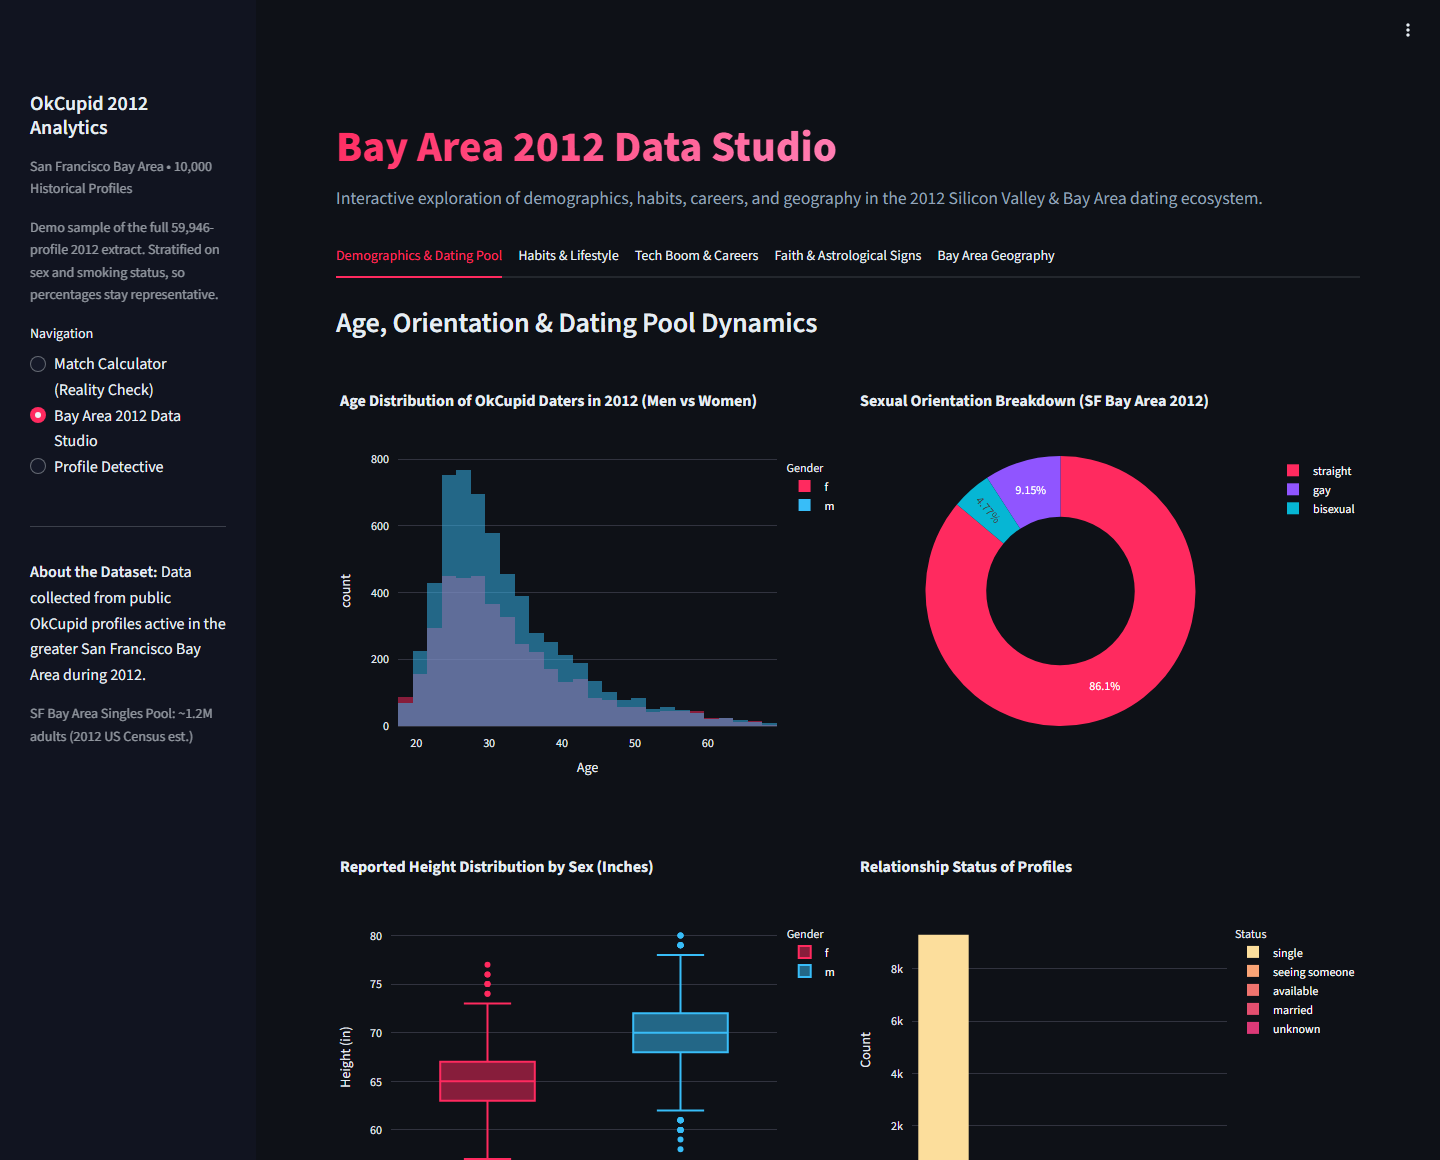
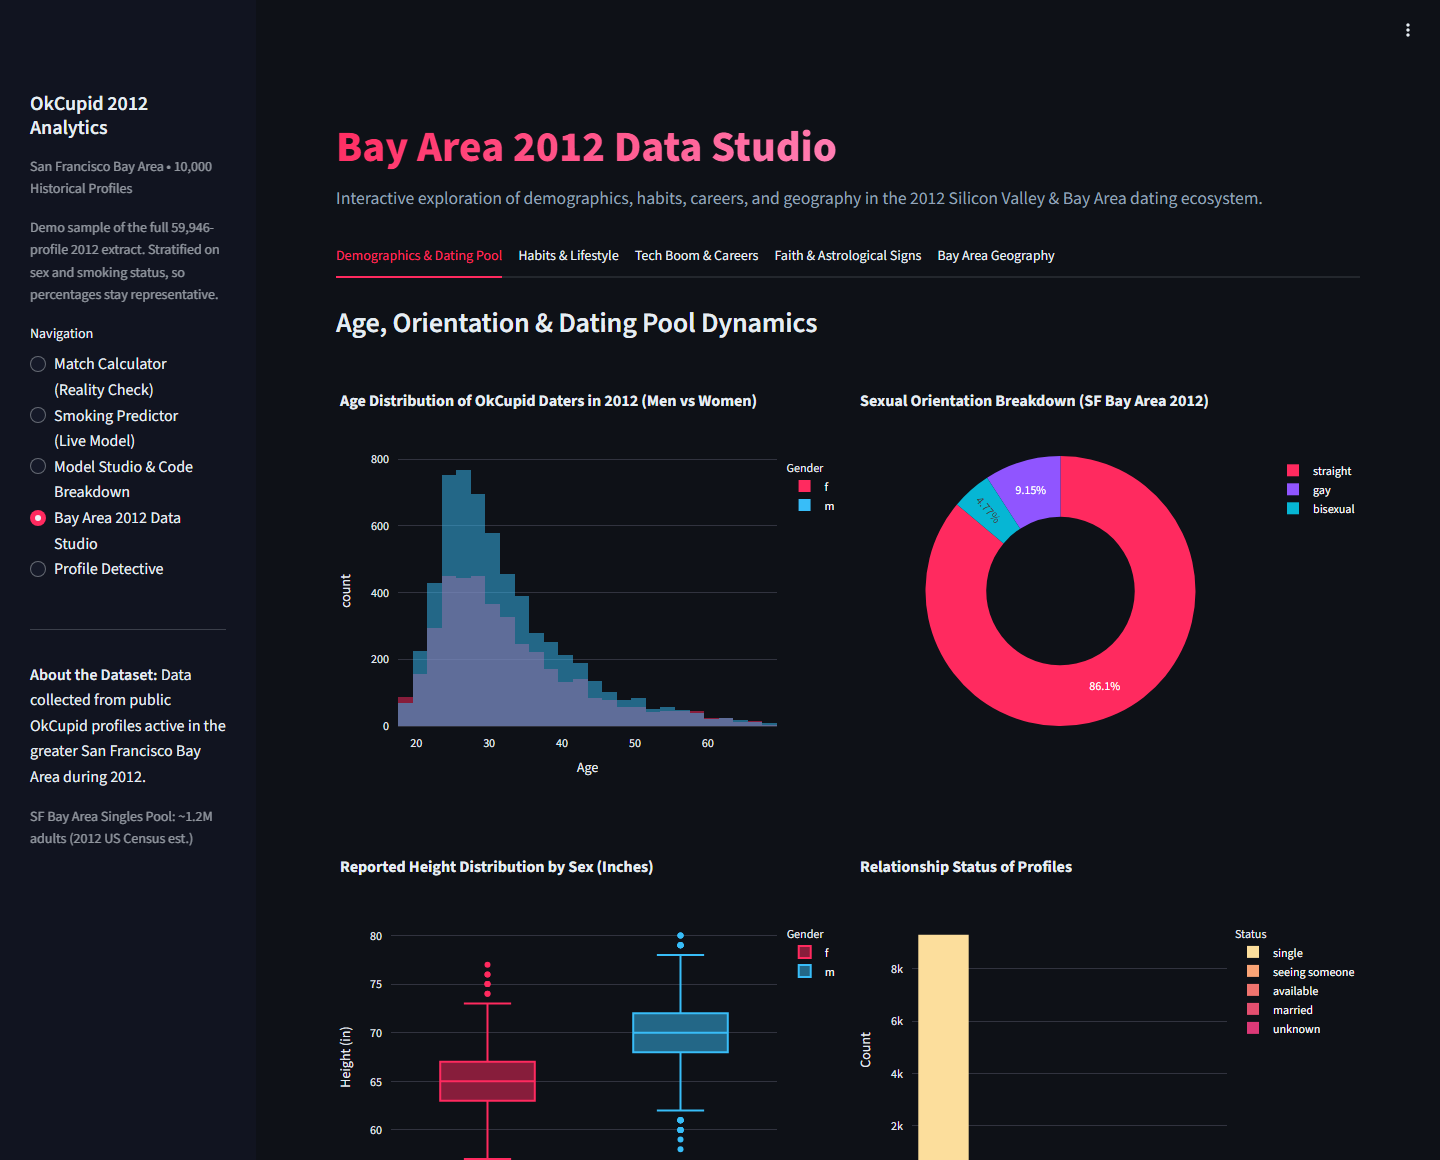
docs: label every figure with its dataset, add the ML screenshots and a build note

Changed region(s): [[0.0, 0.3414, 0.1562, 0.7448]]

diff --git a/README.md b/README.md
@@ -9,6 +9,7 @@ smoking is predictable from the rest of a dating profile.**
 ![Plotly](https://img.shields.io/badge/Plotly-6.3-3F4F75?logo=plotly&logoColor=white)
 ![scikit-learn](https://img.shields.io/badge/scikit--learn-1.7-F7931E?logo=scikitlearn&logoColor=white)
 ![License](https://img.shields.io/badge/license-MIT-2ea44f)
+[![CI](https://github.com/ShadowstheDark/OK_Cupid_Smoking_predictor/actions/workflows/ci.yml/badge.svg)](https://github.com/ShadowstheDark/OK_Cupid_Smoking_predictor/actions/workflows/ci.yml)
 
 [![Open in Streamlit](https://static.streamlit.io/badges/streamlit_badge_black_white.svg)](https://okcupidsmokingpredictor-bb36gkdr5sbeub82b6lz83.streamlit.app/)
 
@@ -24,37 +25,67 @@ single requirement is doing the most damage to your dating pool.
 Smoking *is* weakly predictable from the rest of a profile — but the headline number
 that looks like success is not one, and the notebook is largely about proving that.
 
-| Model (held-out test set, 10,887 profiles) | Accuracy | Precision (smoker) | Recall (smoker) | F1 (smoker) |
-|---|---|---|---|---|
-| Baseline — always answer "does not smoke" | **0.806** | 0.000 | 0.000 | 0.000 |
-| Logistic regression | 0.820 | 0.618 | 0.184 | 0.283 |
-| Logistic regression, `class_weight="balanced"` | 0.709 | 0.351 | **0.592** | 0.441 |
-| Random forest, `max_depth=5` | 0.751 | 0.392 | 0.520 | **0.447** |
+*Implementation was AI-assisted. What is mine, and what I caught along the way, is in
+[How this was built](#how-this-was-built).*
+
+<!-- benchmark:start -->
+**Committed sample — 10,000 rows** — shipped in the repository and served by the deployed app. Stratified on sex and smoking status, so shares stay representative.
+
+| Model | Accuracy | Precision (smoker) | Recall (smoker) | F1 (smoker) | ROC-AUC |
+|---|---|---|---|---|---|
+| Baseline — always answer "does not smoke" | 0.806 | 0.000 | 0.000 | 0.000 | 0.500 |
+| Logistic regression | 0.817 | 0.591 | 0.185 | 0.281 | 0.727 |
+| Logistic regression, `class_weight="balanced"` | 0.712 | 0.362 | 0.639 | 0.462 | 0.727 |
+| Random forest, `max_depth=5` | 0.733 | 0.371 | 0.545 | 0.442 | 0.714 |
+| HistGradientBoosting (balanced) | 0.728 | 0.377 | 0.625 | 0.471 | 0.729 |
+
+- Profiles in file: **10,000**
+- Profiles with a usable smoking label: **9,081**
+- Held-out test split (20%, stratified): **1,817**
+- Smoker base rate: **19.4%**
+- Smoker rate when the drugs question was answered `never`: **12.4%** (7,214 profiles)
+- Smoker rate when the drugs question was left blank: **23.1%** (1,867 profiles)
+
+_Generated by `python scripts/report_metrics.py --write`; do not edit by hand._
+<!-- benchmark:end -->
 
 ### What that table actually says
 
 **80.6% of the people who answered the smoking question do not smoke.** So the plain
-logistic regression's 82.0% accuracy is not a result — it is the base rate plus a
-rounding error, and that model catches only 18% of actual smokers. Twelve points of
+logistic regression's 81.7% accuracy is not a result — it is the base rate plus a
+rounding error, and that model catches under a fifth of actual smokers. The extra
 accuracy came from learning to say "no" more confidently, not from learning anything.
 
 Balancing the class weights fixes the right thing and wrecks the headline number:
-accuracy drops to 70.9% while smoker recall climbs from 0.18 to 0.59. If the goal is
+accuracy falls by ten points while recall on smokers more than triples. If the goal is
 *finding* smokers rather than *scoring* well, that trade is worth making — and it is
 completely invisible if you only ever report accuracy.
 
-The signal that does exist is almost entirely drug use and drinking (`drugs_often`
-leads with a coefficient of 2.07, `drinks_very often` 1.02), while age is close to
-irrelevant at -0.04. That is nearly tautological: those are co-reported habits from
-the same session, not independent evidence.
+The signal that does exist is almost entirely drug use and drinking, while age is
+close to irrelevant. That is nearly tautological: those are co-reported habits from
+the same session, not independent evidence, which is the strongest reason to be
+sceptical of the model even though its numbers look respectable.
 
 The most useful thing the study does is refuse to overclaim. Five-fold
-cross-validation shows depths 3, 5 and 7 land at 0.441 / 0.443 / 0.444 mean F1 —
-inside one fold-to-fold standard deviation of each other — so "depth 7 is best" is
-reading noise. An earlier version of this analysis did exactly that; the notebook
-shows the corrected version with the numbers attached.
+cross-validation shows the random forest's depths 3, 5 and 7 landing inside one
+fold-to-fold standard deviation of each other — so "depth 7 is best" is reading
+noise. An earlier version of this analysis did exactly that; the notebook shows the
+corrected version with the numbers attached.
+
+### Two artefacts, two runs — read the labels
+
+The table above is regenerated from the shipped pipeline on the **committed
+10,000-row sample**, which is exactly what the deployed app serves, so the README and
+the app now agree. The [notebook](notebooks/okcupid-smoking-prediction.ipynb) reports
+the **full 59,946-row extract** instead, and it encodes one-hot features differently:
+with `get_dummies(drop_first=True)` on raw columns, an unanswered question produces an
+all-zero row that the model cannot distinguish from the reference answer. That is why
+its balanced model lands at 0.709 accuracy / 0.592 recall while the shipped pipeline
+reaches 0.716 / 0.625 on the same rows and the same split. Every number in both
+artefacts, with the dataset named next to it, is in **[RESULTS.md](RESULTS.md)**.
 
 → **[Read the full analysis](notebooks/okcupid-smoking-prediction.ipynb)**
+→ **[Model results, both datasets](RESULTS.md)**
 
 ---
 
@@ -67,7 +98,27 @@ shows the corrected version with the numbers attached.
 Twelve filters, a live probability card, and a **dealbreaker funnel** that shows how
 many candidates each requirement removes. The panel on the right names the single
 biggest bottleneck — in the default configuration, filtering by gender alone
-eliminates 59.8% of the pool before anything else gets a say.
+eliminates 59.8% of the pool before anything else gets a say. Every filter treats an
+unanswered question the same way, and the funnel reports how much of each step's
+attrition came from blank answers rather than genuine mismatches.
+
+### Smoking Predictor — live inference with the reasoning shown
+
+![Smoking Predictor](assets/smoking-predictor.png)
+
+Pick a persona or set your own traits, choose the model and the decision threshold, and
+watch the probability move. The bar chart attributes the prediction to individual
+traits in log-odds, and the 🎲 preset draws a real 2012 profile so you can see whether
+the model got that particular person right — mismatches included.
+
+### Model Studio — the accuracy trap, shown rather than asserted
+
+![Model Studio](assets/model-studio.png)
+
+Every figure on this page is read off the models that were just trained on the data
+this instance loaded: the base rate, all five benchmark rows, an interactive confusion
+matrix, the precision/recall/F1 trade-off across thresholds, and both the logistic
+odds ratios and the random forest's Gini importances. Nothing here is typed in by hand.
 
 ### Bay Area 2012 Data Studio — five tabs of exploration
 
@@ -118,11 +169,16 @@ Deep links open the app on a specific mode:
 | `/?page=studio` | Bay Area 2012 Data Studio |
 | `/?page=detective` | Profile Detective |
 
+One caveat about the odds figures: the calculator counts *profiles*, not people, in a
+2012 self-reported dataset. The population estimate multiplies your match rate by an
+independent census figure, so treat it as an order of magnitude rather than a forecast.
+`DATA.md` covers what the data does and does not represent.
+
 ---
 
-## Production ML Pipeline & Architecture
+## Pipeline architecture
 
-The machine learning pipeline is fully modularized in `smoking_model.py` and decoupled from Streamlit:
+`smoking_model.py` holds the machine learning and imports nothing from Streamlit, so the whole pipeline can be trained, tested and scripted from a terminal. The app is a client of it, not part of it:
 
 ```
                       ┌─────────────────────────────┐
@@ -145,7 +201,7 @@ The machine learning pipeline is fully modularized in `smoking_model.py` and dec
 ┌──────────────────┐       ┌──────────────────┐        ┌───────────────────────┐
 │ Logistic Regress.│       │  Random Forest   │        │ HistGradientBoosting  │
 │    (Balanced)    │       │   (max_depth=5)  │        │   (LightGBM-style)    │
-│  Log-odds & ORs  │       │ Gini Importances │        │    F1: 0.471          │
+│  Log-odds & ORs  │       │ Gini Importances │        │  best F1 of the five  │
 └────────┬─────────┘       └─────────┬────────┘        └───────────┬───────────┘
          │                           │                             │
          └───────────────────────────┼─────────────────────────────┘
@@ -168,27 +224,93 @@ The machine learning pipeline is fully modularized in `smoking_model.py` and dec
 
 ---
 
-## Automated Test Suite
+## Test suite and continuous integration
 
-A complete test suite is maintained under `tests/` and run automatically on every push via **GitHub Actions** (`.github/workflows/ci.yml`):
+25 tests live in `tests/` and run on every push via **GitHub Actions**
+(`.github/workflows/ci.yml`) on Python 3.11 and 3.12:
 
 ```bash
-# Run all 25 unit and integration tests
-pytest tests/ -v
+pytest tests/ -v      # 25 passed
 ```
 
-- `tests/test_data_loader.py`: Sanitization, HTML regex stripping, pet/religion/education parsing, and dataset integrity.
-- `tests/test_smoking_model.py`: Schema enforcement, base rate verification, accuracy trap baseline tests, balanced model recall validation, and boundary-condition inference.
+- `tests/test_data_loader.py`: HTML/entity stripping, pet, religion, city and education
+  parsing, and dataset integrity.
+- `tests/test_smoking_model.py`: feature-schema enforcement, base-rate and accuracy-trap
+  behaviour, the explicit `unspecified` column, and boundary conditions in live inference.
+
+Two notes on running them. The tests import `data_loader` and `smoking_model` from the
+repository root, which is what the root `conftest.py` is for — without it the `pytest`
+console script fails during collection with `ModuleNotFoundError`. (`python -m pytest`
+hides that, because it puts the working directory on `sys.path` itself.) And the suite
+trains five models, so it needs about 15 seconds and a readable dataset; on a clone
+without `data/full/` it runs against the committed sample.
 
 ---
 
-## Key Improvements & Bug Fixes
+## Design decisions
 
-- **Model in Production**: Added `smoking_model.py` and integrated live inference into the Streamlit app. Users can select personas, tweak custom traits, adjust decision thresholds, and inspect real-time log-odds feature attributions.
-- **Fixed "Did Not Answer" Conflation**: In the exploratory notebook, missing categorical values encoded as all-zeros, conflating "did not answer" with "never". Profiles withholding drug answers smoked at **23.1%** (nearly double the **12.4%** rate of self-reported `never`). Treating missing values as explicit `"unspecified"` recovered this predictive signal.
-- **Modern Tree Booster**: Added `HistGradientBoostingClassifier` (scikit-learn's native LightGBM-style booster), achieving an F1 score of **0.471** on the held-out test split.
-- **Full Precision-Recall Calibration**: Added interactive threshold sensitivity curves allowing users to explore how changing the decision cutoff trades off Precision vs Recall.
-- **Production Engineering**: Zero-downtime `@st.cache_resource` caching, full type hints, and continuous integration testing.
+- **Live inference, not a static notebook.** `smoking_model.py` exposes
+  `predict_single_profile()`, so the app can score a persona in real time and show which
+  traits moved the prediction. `@st.cache_resource` keeps the five trained models in
+  memory instead of refitting on each interaction.
+- **Treating "did not answer" as its own category.** Profiles that left the drugs
+  question blank smoke at roughly twice the rate of those who answered `never` — a real
+  signal that the notebook's encoding erased, as the [RESULTS.md](RESULTS.md) ablation
+  measures. The shipped encoder gives blank answers an explicit `unspecified` column.
+- **A second model family.** `HistGradientBoostingClassifier` is included alongside the
+  linear and bagged models; it is the strongest of the five on F1, which is worth having
+  as a check that the linear model is not simply the best available.
+- **Thresholds as a dial, not a constant.** The default 0.50 cutoff is arbitrary, so the
+  app exposes it and plots the precision/recall/F1 trade-off across its whole range.
+
+---
+
+## Reproducing the numbers
+
+```bash
+python scripts/report_metrics.py            # train and print every dataset present
+python scripts/report_metrics.py --write    # regenerate the table above and RESULTS.md
+pytest tests/ -v                            # 25 tests
+```
+
+`scripts/report_metrics.py` trains the real pipeline and writes its output into the
+marked block above, so the figures in this README and in the app cannot drift away from
+the code that produces them. The full-extract rows only appear on a machine that has
+`data/full/profiles.csv`; a fresh clone reports the sample.
+
+---
+
+## How this was built
+
+The implementation is AI-assisted: I used Google Antigravity and Codebuff/Claude agents
+to write much of the code, and Gemini as a second opinion on the write-ups. Saying so
+costs nothing and saves anyone reading this from guessing.
+
+What I decided and can defend line by line:
+
+- **The work itself.** The dealbreaker funnel, the live predictor, the five-mode split,
+  and the choice to publish the negative result rather than a flattering one.
+- **The discrepancy.** The app and the notebook were reporting different numbers for
+  what was supposed to be the same experiment. Chasing it found the cause: with
+  `drop_first=True`, 46,729 of 54,434 rows encode identically for "reports never using
+  drugs" and "did not answer the question" — 86% of the data the model could not
+  separate. The ablation in [RESULTS.md](RESULTS.md) measures what fixing that is worth.
+- **Three corrections to the first version of the analysis.** A misreported accuracy
+  (0.68 stated against 0.709 measured), smoker and non-smoker recall swapped in the
+  prose, and "depth 7 is best" reading noise inside one cross-validation standard
+  deviation.
+- **The test suite's real failure mode.** The root `conftest.py` exists because the
+  suite could not import its own modules under the `pytest` console script that CI
+  uses; it passed locally only because `python -m pytest` puts the working directory on
+  `sys.path` itself.
+- **The numbers are reproducible.** `scripts/report_metrics.py` trains the pipeline and
+  writes its output into this file, so every figure can be regenerated rather than
+  believed.
+
+The honest summary: the AI wrote a lot of this code, and it also produced
+plausible-looking numbers that were wrong — twice. The corrected notebook and the
+ablation table are the record of finding that out, which is the part I would actually
+want to be asked about.
 
 ---
 
